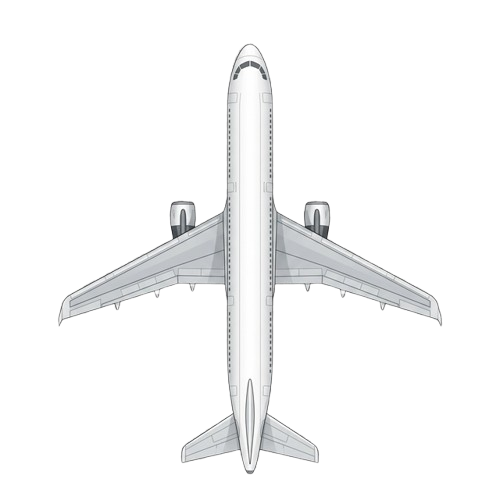
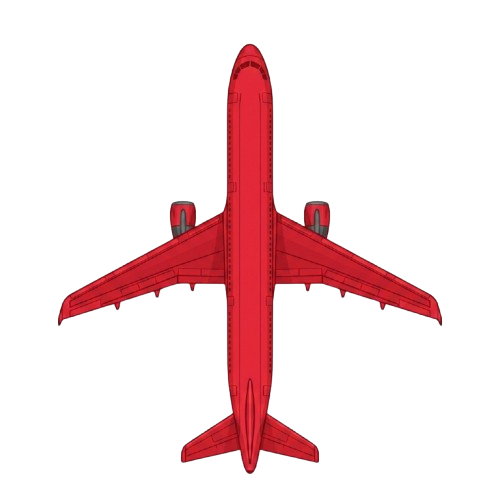
Cập nhật tài nguyên và sơ đồ luồng mô phỏng

Changed region(s): [[0.12, 0.09, 0.9, 0.96]]

diff --git a/scripts/export_mermaid.py b/scripts/export_mermaid.py
@@ -1,46 +1,26 @@
 import zlib
 import base64
-import requests
+import urllib.request
 import os
+import re
 
-mermaid_code = """graph LR
-    subgraph MainFlow [DTaxi System Flow]
-    A[Bắt đầu: main.py] --> B[Khởi tạo DTaxiApp]
-    B --> C[Thiết lập UI: WindowManager]
-    B --> D[Khởi tạo Engine: ScenarioManager & MapRenderer]
-    
-    C --> E{Người dùng chọn kịch bản?}
-    E -- Có --> F[Tải file JSON kịch bản]
-    F --> G[Khởi tạo danh sách AircraftEntity]
-    G --> H[Cập nhật UI & Bản đồ ban đầu]
-    
-    H --> I[Vòng lặp chính: update_loop]
-    
-    subgraph "Simulation Loop (Mỗi Frame)"
-        I --> J[Tính toán Delta Time * Sim Speed]
-        J --> K{Simulation Paused?}
-        K -- No --> L[Cập nhật vị trí AircraftEntity]
-        K -- Yes --> M[Giữ nguyên vị trí]
-        L --> N{Auto Play Mode?}
-        N -- Yes --> O[Kiểm tra điều kiện Auto-Next]
-        O --> P[Tự động chuyển Step nếu máy bay dừng]
-    end
-    
-    I --> Q[MapRenderer: Vẽ lại toàn bộ Scene]
-    Q --> R[WindowManager: Cập nhật Log & Status]
-    
-    R --> S{Sự kiện từ người dùng?}
-    S -- NEXT/PREV --> T[Điều hướng kịch bản]
-    S -- STOP/RESUME --> U[Bật/Tắt Pause]
-    S -- Slider --> V[Thay đổi Sim Speed]
-    
-    T --> I
-    U --> I
-    V --> I
-    P --> I
-    end"""
+def get_mermaid_from_file(file_path):
+    with open(file_path, 'r', encoding='utf-8') as f:
+        content = f.read()
+        # Tim block mermaid
+        match = re.search(r'```mermaid\s+(.*?)\s+```', content, re.DOTALL)
+        if match:
+            return match.group(1).strip()
+    return None
 
 def export_mermaid_kroki():
+    input_file = "docs/040-Diagrams/Main_Flow.md"
+    mermaid_code = get_mermaid_from_file(input_file)
+    
+    if not mermaid_code:
+        print(f"Khong tim thay code Mermaid trong {input_file}")
+        return
+
     # Kroki algorithm: UTF-8 -> Zlib Compress -> Base64 URL Safe
     payload = mermaid_code.encode('utf-8')
     compressed = zlib.compress(payload, 9)
@@ -48,18 +28,20 @@ def export_mermaid_kroki():
     
     url = f"https://kroki.io/mermaid/png/{encoded}"
     
-    print(f"Dang tai anh tu Kroki: {url}")
-    response = requests.get(url)
+    print(f"Dang tai anh tu Kroki cho file: {input_file}")
+    print(f"URL: {url}")
     
-    if response.status_code == 200:
+    try:
         output_path = "docs/040-Diagrams/Main_Flow.png"
         os.makedirs(os.path.dirname(output_path), exist_ok=True)
-        with open(output_path, "wb") as f:
-            f.write(response.content)
+        
+        req = urllib.request.Request(url, headers={'User-Agent': 'Mozilla/5.0'})
+        with urllib.request.urlopen(req, timeout=30) as response:
+            with open(output_path, "wb") as f:
+                f.write(response.read())
         print(f"Da luu anh vao: {output_path}")
-    else:
-        print(f"Loi khi tai anh tu Kroki: {response.status_code}")
-        print(response.text)
+    except Exception as e:
+        print(f"Loi khi tai anh: {e}")
 
 if __name__ == "__main__":
     export_mermaid_kroki()

diff --git a/docs/040-Diagrams/Main_Flow.md b/docs/040-Diagrams/Main_Flow.md
@@ -20,13 +20,25 @@ graph TD
         J --> K{Simulation Paused?}
         K -- No --> L[Cập nhật vị trí AircraftEntity]
         K -- Yes --> M[Giữ nguyên vị trí]
+        
         L --> N{Auto Play Mode?}
-        N -- Yes --> O[Kiểm tra điều kiện Auto-Next]
-        O --> P[Tự động chuyển Step nếu máy bay dừng]
+        M --> Q
+        N -- No --> Q
+        
+        N -- Yes --> O{Loại Step?}
+        O -- ACTION --> P{Máy bay dừng?}
+        O -- MESSAGE --> PA[Hết thời gian chờ?]
+        
+        P -- Yes --> NEXT[handle_next]
+        PA -- Yes --> NEXT
+        
+        NEXT --> FIN{Hết kịch bản?}
+        FIN -- Yes --> RESET[Chờ 3s & Reset Scenario]
+        FIN -- No --> Q
+        RESET --> I
     end
     
-    I --> Q[MapRenderer: Vẽ lại toàn bộ Scene]
-    Q --> R[WindowManager: Cập nhật Log & Status]
+    Q[MapRenderer: Vẽ lại toàn bộ Scene] --> R[WindowManager: Cập nhật Log & Status]
     
     R --> S{Sự kiện từ người dùng?}
     S -- NEXT/PREV --> T[Điều hướng kịch bản]
@@ -36,7 +48,8 @@ graph TD
     T --> I
     U --> I
     V --> I
-    P --> I
+    P -- No --> Q
+    PA -- No --> Q
 ```
 
 ## Giải thích các thành phần chính:
